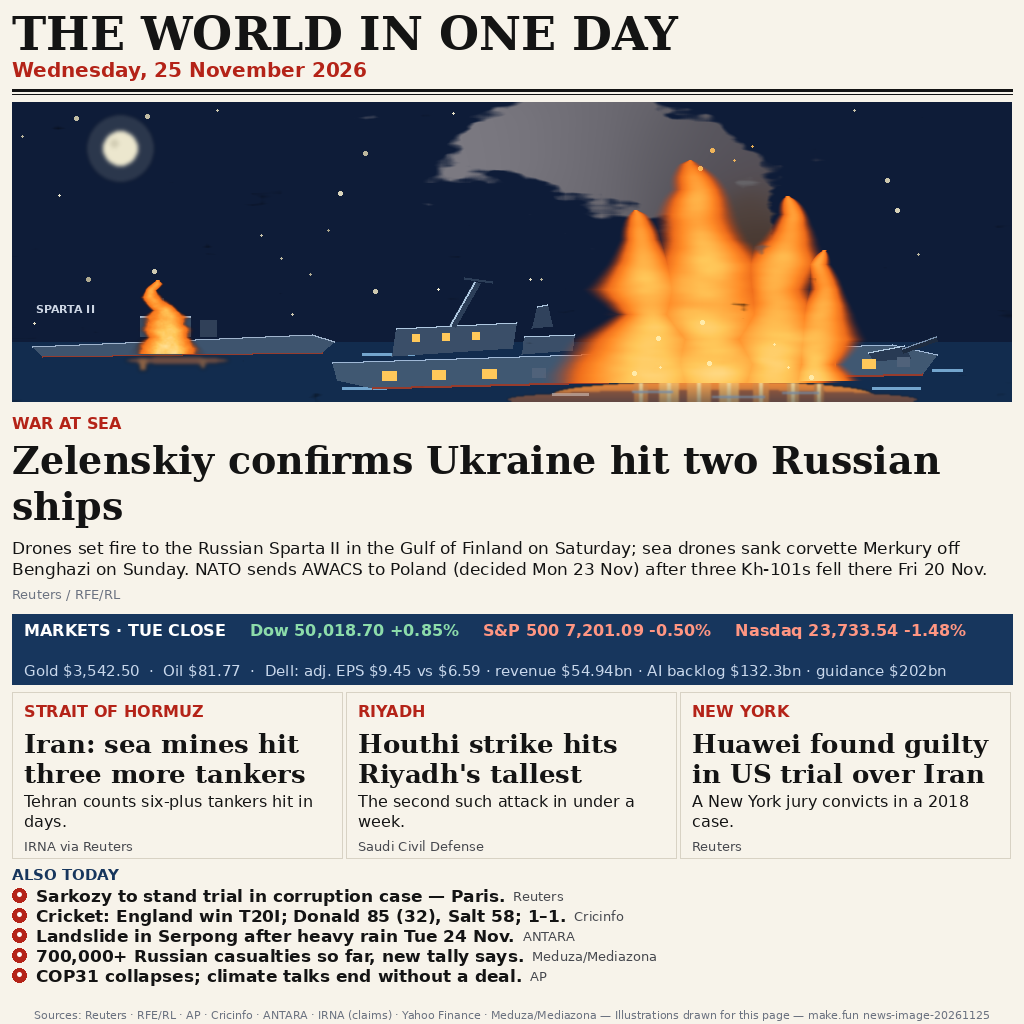
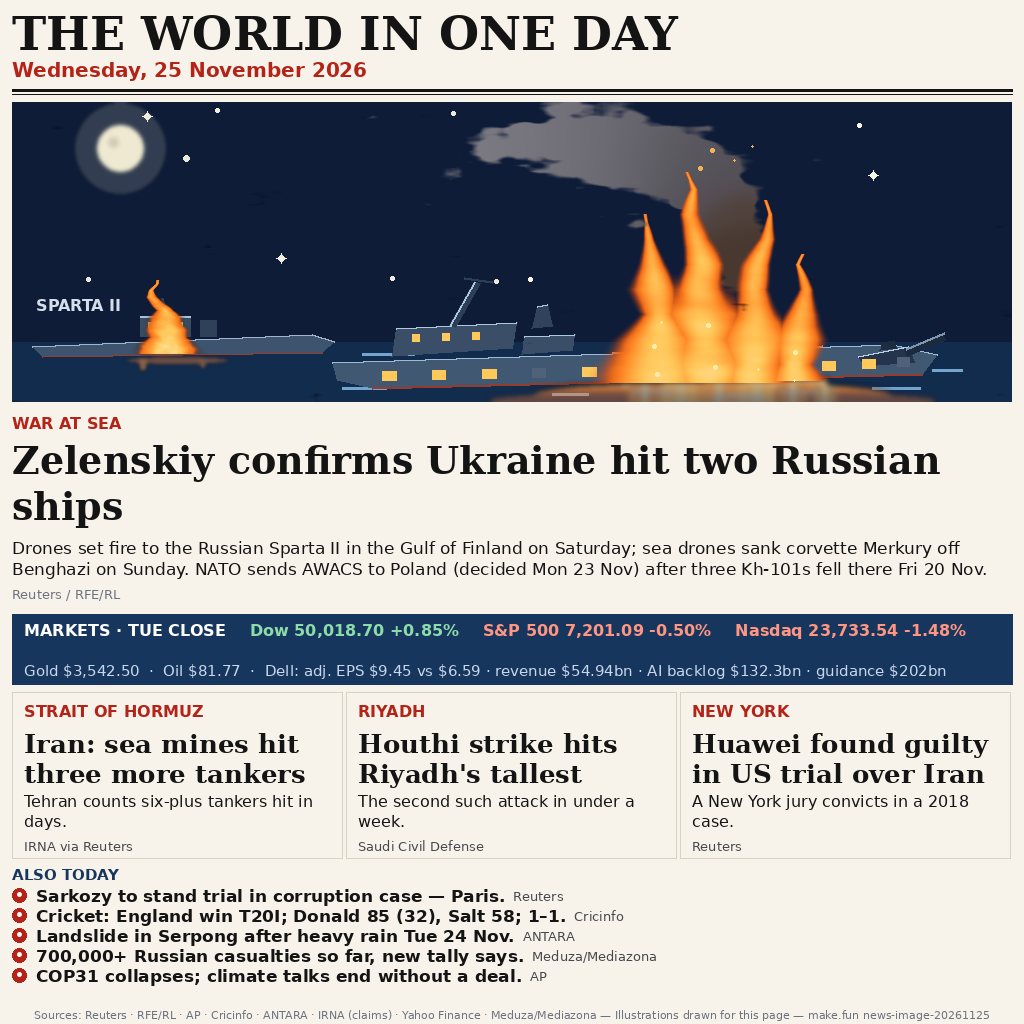
Fix v8: hero-only — pointed textured flame tongues with dark gaps, narrower fire, transparent layered smoke, readable turret, soft wide reflection, bigger moon + firm stars, SPARTA II label 16pt

diff --git a/render.py b/render.py
@@ -104,6 +104,32 @@ v4 design (built for 300px FIRST, where pairwise judging happens):
   bottom; the hull is brighter still so it separates from sky and sea;
   the DATE CHECK line is folded into ALSO TODAY as a normal news item.
   Nothing else in v7 changes.
+- v8 (hero only, 25 Nov evening): v7's hero still failed the top-10 bar
+  (7/8 brains REVISI, est #60-250, top-10 1-5%; MiniMax failed 503, no
+  verdict) on the HERO alone — and the texture/gradient was real but
+  the SHAPE was still wrong: 4 rounded masses, blunt tips, not one
+  pointed tip, reading at 3x zoom as a glowing orange cloud /
+  stalagmite / coral, not fire. Ironically the small Sparta II flame
+  reads MORE like fire (one S-curved tongue with a pointed tip) — so
+  the pointed shape CAN be drawn, it just was not applied to the main
+  fire. v8 marries the v6 pointed SHAPE to the v7 textured MEDIUM: the
+  flame envelope itself is pointed (half-width exponent 1.0, not the
+  convex 0.55 dome — MiniMax's code check: the v7 envelope is
+  Gaussian, noise only modulates the INSIDE, the outer silhouette
+  stays smooth/rounded) with dark valleys carved between adjacent
+  tongues in the upper part, so the tips are separate pointed tongues
+  at 300px, not just at 3x zoom (Nemotron: the 100x100 noise texture
+  mostly vanishes at 300px, what reads is the mass — so the silhouette
+  change must read at the true 300px thumbnail). The fire is also
+  ~20% narrower so the hull + turret read as a ship, not a fire's
+  pedestal; the smoke is thinner, more transparent and layered (v7's
+  was a solid opaque slab fighting the moon); the turret is a real
+  bigger silhouette with a thick barrel; the reflection is wide soft
+  bands merged with the hull; the Sparta II label is enlarged to 16pt;
+  the sky is a bigger brighter moon + a dozen firm bright stars (not
+  34 pale dots that read as dust); and the thin wisp is moved to the
+  fire's left flank so it never veils the tongues. Nothing else in v8
+  changes.
 """
 import json
 import math
@@ -200,16 +226,30 @@ def _noise1d(h, seed, n=10):
     return np.asarray(im, dtype=np.float64)[:, 0] / 255.0
 
 
-def _flame_layer(w, h, tongues, seed):
+def _flame_layer(w, h, tongues, seed, gaps=True):
     """Textured flame field. tongues: list of (cx, tip_y, base_y, w_max,
     lean) — each a big flame mass on a leaning spine. The field is a
     smooth envelope modulated by fractal noise, so the flames have
     gradient + turbulence + transparency instead of flat polygon colour,
     and licks/holes appear organically. The spine also wobbles and the
     width breathes along its length (1D noise), so no flame edge is a
-    smooth teardrop. Returns (RGBA image, field)."""
+    smooth teardrop. Returns (RGBA image, field).
+
+    v8: the ENVELOPE itself is pointed now, not just the texture inside
+    it — v7's Gaussian envelope (half-width exponent 0.55, a convex
+    dome) made the silhouette stay smooth and rounded whatever the
+    noise did, so at 300px the fire read as glowing orange clouds.
+    The half-width now tapers almost linearly to a sharp point
+    (exponent 1.0), and dark valleys are CARVED between adjacent
+    tongues in the upper part (a notch on the midpoint spine, ramped
+    in from t=0.3 to 0.6), so the tips are separate pointed tongues
+    with dark gaps between them and only the bases merge — like a real
+    multi-tongue flame. Without the carving, the wobble and the
+    breathing close the gaps at mid-height and the masses merge back
+    into one blob."""
     yy, xx = np.mgrid[0:h, 0:w].astype(np.float64)
     env = np.zeros((h, w))
+    spines = []
     for ti, (cx, tip_y, base_y, wmax, lean) in enumerate(tongues):
         span = float(base_y - tip_y)
         t = np.clip((base_y - yy) / span, 0.0, 1.0)  # 0 base, 1 tip
@@ -219,11 +259,29 @@ def _flame_layer(w, h, tongues, seed):
         wob = ((_noise1d(h, seed + 5 + ti * 2) - 0.5) * 20.0)[:, None]
         breathe = ((_noise1d(h, seed + 6 + ti * 2) - 0.5) * 0.70)[:, None]
         cx_at = cx + lean * (t ** 1.5) + wob * t
-        half = np.maximum(wmax * (1.0 - t) ** 0.55 * (1.0 + breathe), 2.0)
+        # POINTED taper: half-width falls almost linearly to a sharp
+        # point at the tip (exponent 1.0), not a convex dome (0.55).
+        half = np.maximum(wmax * (1.0 - t) ** 1.0 * (1.0 + breathe), 1.5)
         vf = 1.0 - 0.35 * t  # slightly weaker at the tip
         e = np.exp(-((xx - cx_at) ** 2) / (2 * half ** 2)) * vf
         e = np.where((yy >= tip_y) & (yy <= base_y + 8), e, 0.0)
         env = np.maximum(env, e)
+        spines.append((cx, tip_y, base_y, lean, wob))
+    if gaps and len(tongues) > 1:
+        # carve dark valleys between adjacent tongues in the upper
+        # part, so the tips read as separate pointed tongues at 300px
+        for i in range(len(tongues) - 1):
+            cx0, tip0, base0, lean0, wob0 = spines[i]
+            cx1, tip1, base1, lean1, wob1 = spines[i + 1]
+            top = min(tip0, tip1)
+            bot = max(base0, base1)
+            span = float(bot - top)
+            t = np.clip((bot - yy) / span, 0.0, 1.0)
+            gapx = (0.5 * (cx0 + cx1) + 0.5 * (lean0 + lean1) * (t ** 1.5)
+                    + 0.5 * (wob0 + wob1) * t)
+            ramp = np.clip((t - 0.30) / 0.30, 0.0, 1.0)
+            notch = np.exp(-((xx - gapx) ** 2) / (2 * 6.0 ** 2)) * ramp
+            env = env * (1.0 - 0.80 * notch)
     coarse = _fbm(w, h, seed, base=6, octaves=4)
     fine = _fbm(w, h, seed + 1, base=18, octaves=3)
     field = env * (0.50 + 0.50 * coarse) * (0.85 + 0.15 * fine)
@@ -323,23 +381,34 @@ def draw_hero_panel():
     panel = Image.new("RGB", (w, h), (14, 28, 56))
     dr = ImageDraw.Draw(panel)
     # sky: slightly darker navy so the brighter hull separates from it.
-    # Stars: denser, varied brightness — the upper panel must not read
-    # as 60% empty sky. A pale moon with a soft halo fills the top-left.
+    # Stars (v8): FEW and FIRM, not many pale dots — v7's 34 tiny stars
+    # read as dust at zoom and vanish at 300px, while the sky still
+    # looked like a wide empty dark field. A bigger, brighter moon with
+    # a clear halo + a dozen sharp bright stars (three with a small
+    # cross flare) are elements that actually read at 300px.
     rng = np.random.default_rng(20261125)
-    for _ in range(34):
+    star_pts = []
+    for _ in range(14):
         sx = int(rng.integers(8, 992))
         sy = int(rng.integers(6, 225))
         if 380 < sx < 830 and 15 < sy < 140:
             continue  # keep the smoke plume area clean
-        rr = int(rng.integers(1, 3))
-        br = int(rng.integers(170, 245))
+        star_pts.append((sx, sy))
+    for j, (sx, sy) in enumerate(star_pts):
+        rr = 3 if j < 4 else 2
+        br = int(rng.integers(235, 256))
         dr.ellipse([sx - rr, sy - rr, sx + rr, sy + rr],
-                   fill=(br, br - 5, br - 30))
+                   fill=(br, br - 3, br - 18))
+        if j < 3:  # cross flare: reads as a star, not a dust speck
+            dr.line([sx - 5, sy, sx + 5, sy], fill=(br, br, br - 10),
+                    width=1)
+            dr.line([sx, sy - 5, sx, sy + 5], fill=(br, br, br - 10),
+                    width=1)
     mg = Image.new("RGBA", (w, h), (0, 0, 0, 0))
     md = ImageDraw.Draw(mg)
-    _ellipse(md, 108, 46, 34, 34, (235, 230, 205, 34))
-    _ellipse(md, 108, 46, 17, 17, (236, 231, 206, 255))
-    _ellipse(md, 102, 41, 4, 4, (210, 205, 180, 255))
+    _ellipse(md, 108, 46, 46, 46, (235, 230, 205, 42))
+    _ellipse(md, 108, 46, 23, 23, (238, 233, 208, 255))
+    _ellipse(md, 101, 40, 5, 5, (210, 205, 180, 255))
     panel = _composite(panel, mg.filter(ImageFilter.GaussianBlur(2)))
     dr = ImageDraw.Draw(panel)
     # sea: darker than the hull so the hull reads against the water too
@@ -365,7 +434,9 @@ def draw_hero_panel():
     dr.line([153, 214, 150, 196], fill=HULL_SD, width=3)
     for wx in (136, 150, 164):
         dr.rectangle([wx, 220, wx + 6, 226], fill=(255, 200, 90))
-    text(dr, (24, 200), "SPARTA II", SANSB(11), (205, 214, 228))
+    # label enlarged 11 -> 16pt: at 11pt it vanished at 300px; 16pt
+    # bold survives the thumbnail like the grid kickers do
+    text(dr, (24, 194), "SPARTA II", SANSB(16), (215, 222, 235))
     # Sparta II glow + textured flame (base dips below the deck line)
     sg = Image.new("RGBA", (w, h), (0, 0, 0, 0))
     sd = ImageDraw.Draw(sg)
@@ -412,13 +483,19 @@ def draw_hero_panel():
     # lit windows on the superstructure (bigger, framed by the bright hull)
     for wx, wy in [(400, 232), (430, 231), (460, 230)]:
         dr.rectangle([wx, wy, wx + 7, wy + 7], fill=(255, 200, 90))
-    # bow gun turret: a REAL silhouette — darker block, pale top edge,
-    # and a THICK barrel angled up-right with a lighter top line.
-    dr.polygon([(856, 250), (892, 243), (898, 256), (862, 259)],
-               fill=(40, 58, 84))
-    dr.line([856, 250, 892, 243], fill=(180, 205, 228), width=2)
-    dr.line([890, 248, 924, 236], fill=(30, 44, 64), width=6)
-    dr.line([890, 246, 924, 234], fill=(120, 145, 175), width=2)
+    # bow gun turret: a REAL silhouette — v7's was a small grey box +
+    # a thin diagonal that vanished at zoom. Bigger block (taller,
+    # wider), darker fill for contrast against the lighter hull, pale
+    # top edge, and a THICK barrel angled up-right with a lighter top
+    # line. The v8 fire is narrower, so the turret is clear of the
+    # flames instead of half-covered by them.
+    dr.polygon([(846, 254), (896, 244), (902, 260), (852, 264)],
+               fill=(36, 52, 76))
+    dr.line([846, 254, 896, 244], fill=(185, 208, 230), width=2)
+    dr.polygon([(868, 248), (884, 246), (882, 238), (870, 240)],
+               fill=(30, 44, 66))
+    dr.line([894, 250, 932, 234], fill=(28, 42, 62), width=8)
+    dr.line([894, 247, 932, 231], fill=(125, 150, 180), width=3)
     # portholes: bigger (14px) so they survive the 300px thumbnail
     for px, py, pw, lit in [(370, 269, 14, True), (420, 268, 13, True),
                             (470, 267, 14, True), (520, 266, 13, False),
@@ -432,24 +509,29 @@ def draw_hero_panel():
     # line across the flame bodies)
     dr.line([600, 250, 640, 247], fill=(255, 140, 50), width=2)
     dr.line([772, 245, 810, 243], fill=(255, 140, 50), width=2)
-    # ---- fire reflection: WIDE glow + gradient streaks to the bottom --
-    # Streaks start AT the hull's bottom edge and fade downward; the
-    # alpha gradient is applied in numpy so they genuinely reach y=300
-    # instead of stopping as a short muddy blur.
+    # ---- fire reflection: WIDE, SOFT, merged with the hull ----
+    # v7's was short vertical bars (barcode): crisp lines with hard
+    # edges that stopped as a muddy blur. v8 draws WIDE soft bands
+    # (widths 24-44) blurred heavily (blur 3) so they merge into one
+    # wide glow, plus a bright soft line right along the hull's bottom
+    # edge so the reflection is ATTACHED to the ship instead of
+    # floating under it. The alpha gradient is applied in numpy so the
+    # streaks genuinely reach y=300 instead of stopping as a short blur.
     rg = Image.new("RGBA", (w, h), (0, 0, 0, 0))
     rd = ImageDraw.Draw(rg)
-    _ellipse(rd, 700, 292, 160, 13, (255, 145, 55, 235))
-    _ellipse(rd, 700, 297, 205, 9, (255, 125, 45, 150))
+    _ellipse(rd, 700, 292, 180, 13, (255, 145, 55, 220))
+    _ellipse(rd, 700, 297, 225, 9, (255, 125, 45, 140))
+    # bright attach line along the hull bottom edge under the fire zone
+    rd.line([610, 283, 815, 278], fill=(255, 195, 115, 210), width=7)
     for sx, sy0, wd, col in [
-            (628, 280, 14, (255, 155, 65, 225)),
-            (656, 279, 20, (255, 185, 95, 240)),
-            (686, 278, 24, (255, 165, 75, 235)),
-            (716, 278, 20, (255, 185, 95, 240)),
-            (748, 279, 16, (255, 155, 65, 225)),
-            (780, 280, 12, (255, 175, 85, 210)),
-            (806, 281, 10, (255, 155, 65, 195))]:
+            (632, 281, 34, (255, 155, 65, 200)),
+            (668, 280, 40, (255, 185, 95, 215)),
+            (706, 279, 44, (255, 165, 75, 210)),
+            (744, 280, 38, (255, 185, 95, 215)),
+            (780, 281, 30, (255, 155, 65, 195)),
+            (812, 282, 24, (255, 175, 85, 180))]:
         rd.line([sx, sy0, sx, 300], fill=col, width=wd)
-        rd.line([sx, sy0, sx, 300], fill=(255, 220, 150, 240), width=4)
+        rd.line([sx, sy0, sx, 300], fill=(255, 220, 150, 200), width=6)
     arr = np.asarray(rg).astype(np.float64)
     yy = np.arange(h)[:, None]
     fade = np.clip(1.0 - 0.45 * ((yy - 281) / 19.0), 0.55, 1.0)
@@ -459,7 +541,7 @@ def draw_hero_panel():
     rd = ImageDraw.Draw(rg)
     for sx, sy, ln in [(620, 289, 40), (700, 294, 52), (770, 290, 36)]:
         rd.line([sx, sy, sx + ln, sy], fill=(210, 225, 240, 130), width=2)
-    panel = _composite(panel, rg.filter(ImageFilter.GaussianBlur(1)))
+    panel = _composite(panel, rg.filter(ImageFilter.GaussianBlur(3)))
     dr = ImageDraw.Draw(panel)
     # ---- smoke: TEXTURED plume, composited BEHIND the fire ----
     # The plume rises from INSIDE the flame mass (base points deep in
@@ -468,42 +550,58 @@ def draw_hero_panel():
     # Because it is drawn BEFORE the fire, the flames cover its base —
     # the smoke EMERGES from the fire instead of staining it (v6's
     # composite-order flaw, caught by Kimi).
+    # v8: THINNER, MORE TRANSPARENT, LAYERED — v7's plume was a solid
+    # opaque grey slab (radii 22-34, alpha up to 0.95) that read as a
+    # storm cloud hanging over the sky and fought the moon at 300px.
+    # Radii cut ~20% and alpha ~30%: the plume now billows UP from the
+    # fire as translucent puffs the sky shows through, instead of a
+    # hanging slab. The smoke-fire connection is unchanged (base deep
+    # in the flames, drawn before the fire).
     sm_path = [
-        (725, 172, 24, (72, 56, 48), 0.95),
-        (722, 142, 26, (72, 56, 48), 0.95),
-        (716, 112, 28, (80, 64, 56), 0.90),
-        (700, 86, 30, (85, 80, 88), 0.85),
-        (678, 66, 32, (88, 86, 94), 0.80),
-        (650, 52, 33, (95, 93, 100), 0.75),
-        (618, 44, 34, (102, 100, 108), 0.70),
-        (584, 40, 33, (110, 108, 116), 0.65),
-        (548, 38, 31, (116, 114, 122), 0.60),
-        (512, 40, 29, (120, 118, 126), 0.55),
-        (478, 46, 26, (122, 120, 128), 0.50),
-        (446, 54, 22, (124, 122, 130), 0.45),
+        (725, 172, 19, (72, 56, 48), 0.68),
+        (722, 142, 21, (72, 56, 48), 0.68),
+        (716, 112, 22, (80, 64, 56), 0.64),
+        (700, 86, 24, (85, 80, 88), 0.60),
+        (678, 66, 26, (88, 86, 94), 0.56),
+        (650, 52, 26, (95, 93, 100), 0.52),
+        (618, 44, 27, (102, 100, 108), 0.48),
+        (584, 40, 26, (110, 108, 116), 0.44),
+        (548, 38, 25, (116, 114, 122), 0.40),
+        (512, 40, 23, (120, 118, 126), 0.36),
+        (478, 46, 21, (122, 120, 128), 0.32),
+        (446, 54, 18, (124, 122, 130), 0.28),
     ]
     panel = _composite(panel, _smoke_layer(w, h, sm_path, seed=20261125))
     dr = ImageDraw.Draw(panel)
-    # ---- flames: TEXTURED field, 2-3 large masses ----
-    # Three big masses (dominant at x~700, tips to y~58) on leaning
-    # spines, bases dipping 20px+ BELOW the deck line (y~248) so the
-    # fire erupts THROUGH the deck. At 300px (hero ~300x90) these read
-    # as one dramatic blaze, not fine tongues collapsing to sub-pixels.
+    # ---- flames: TEXTURED field, 4 POINTED tongues ----
+    # v8: the fire is ~20% NARROWER (span 618-802 vs v7's ~596-828) so
+    # the hull + turret read as a ship instead of a fire's pedestal,
+    # and the tongues are POINTED with dark gaps between them — the
+    # v7 masses were rounded domes (Gaussian envelope, exponent 0.55)
+    # that read as glowing orange clouds at 3x zoom. The pointed
+    # envelope (exponent 1.0) + carved valleys + the v7 fractal
+    # texture/gradient is the v6 shape married to the v7 medium, using
+    # the Sparta II flame (one S-curved pointed tongue) as the shape
+    # reference. Bases still dip 20px+ BELOW the deck line (y~248) so
+    # the fire erupts THROUGH the deck. At 300px (hero ~300x90) the
+    # pointed tips + dark gaps must still read — that is the v8 test,
+    # not the 3x zoom.
     fire_img, field = _flame_layer(w, h, [
-        (640, 108, 272, 44, -14),
-        (700, 58, 272, 60, -22),
-        (762, 94, 272, 46, 16),
-        (802, 148, 270, 26, 10),
+        (648, 112, 272, 30, -14),
+        (694, 70, 272, 38, -20),
+        (740, 98, 272, 30, 14),
+        (782, 152, 270, 20, 10),
     ], seed=20261125)
     panel = _composite(panel, fire_img)
     dr = ImageDraw.Draw(panel)
-    # thin smoke wisp drifting IN FRONT of the flames (low alpha only —
-    # it must read as drifting smoke, never as a dark stain on the fire)
+    # thin smoke wisp (v8: moved to the LEFT FLANK of the fire, lower
+    # alpha — in v7 it drifted across the tongues at x 716-748 and
+    # veiled them; it must never cover the pointed tips)
     wisp_path = [
-        (748, 150, 10, (92, 88, 92), 0.26),
-        (742, 110, 12, (97, 94, 98), 0.24),
-        (732, 76, 13, (102, 100, 104), 0.20),
-        (716, 48, 14, (108, 106, 110), 0.16),
+        (636, 158, 9, (92, 88, 92), 0.20),
+        (628, 118, 10, (97, 94, 98), 0.18),
+        (618, 82, 11, (102, 100, 104), 0.15),
+        (604, 52, 12, (108, 106, 110), 0.12),
     ]
     panel = _composite(panel, _smoke_layer(w, h, wisp_path, seed=77))
     dr = ImageDraw.Draw(panel)
